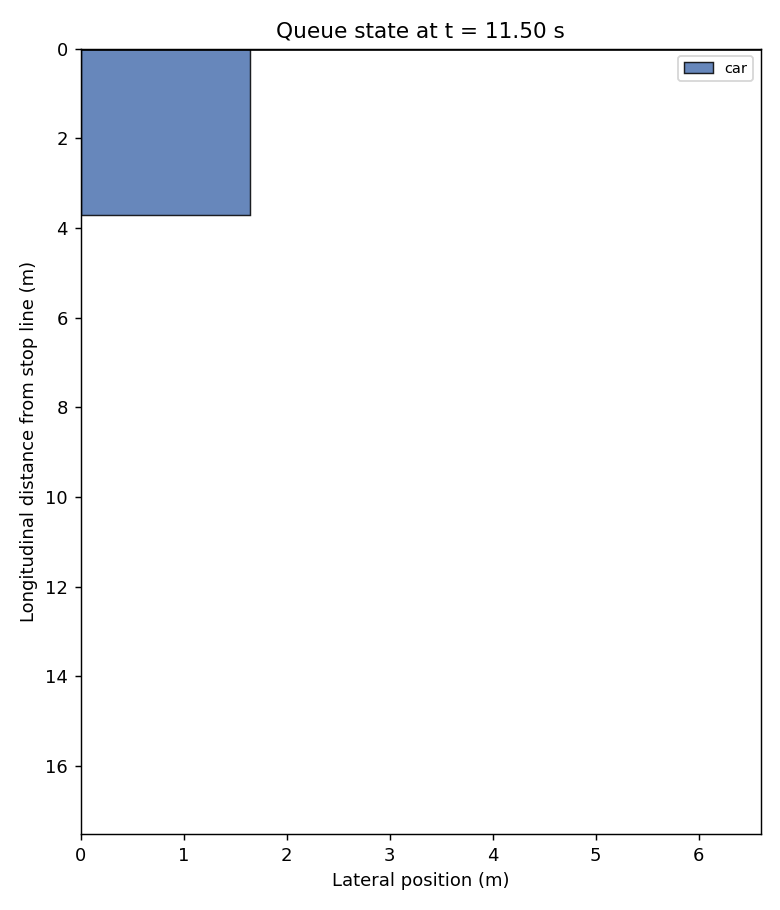
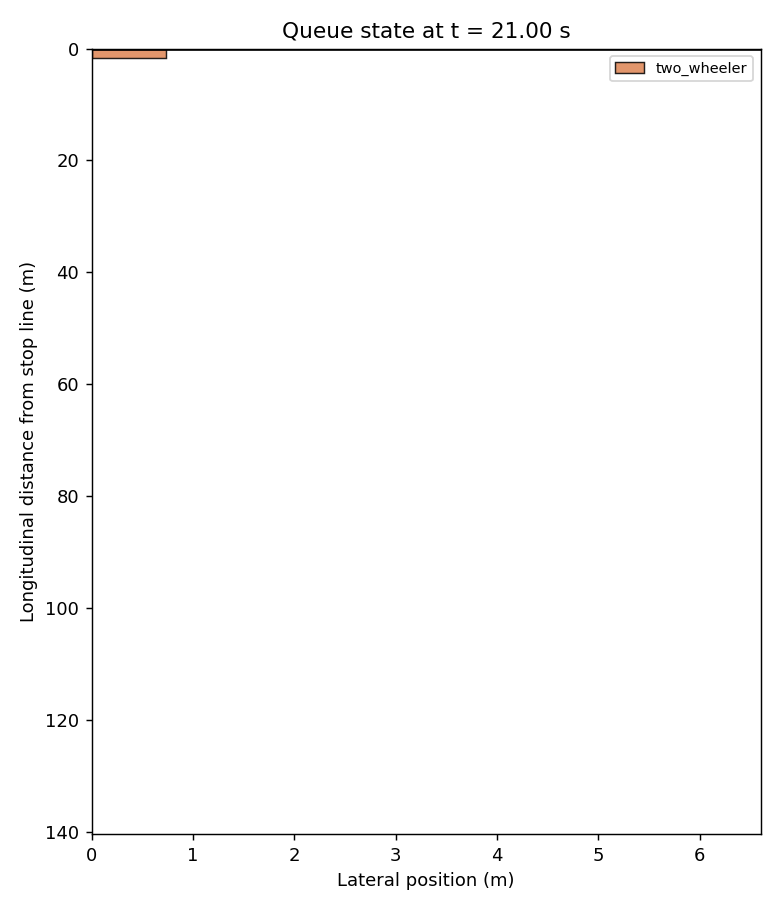
connected the code with simulation data

diff --git a/visualize_queue.py b/visualize_queue.py
@@ -4,12 +4,16 @@ import os
 from dataclasses import dataclass
 
 import matplotlib
+
+from plot import QueueSample
 matplotlib.use("Agg")
 import matplotlib.pyplot as plt
 import matplotlib.patches as patches
 
-from vehicle_queue_simulation import run_default_scenario
-
+from vehicle_queue_simulation import (
+    run_default_scenario,
+    run_csv_scenario,
+)
 
 VEHICLE_COLORS = {
     "car": "#4C72B0",
@@ -30,37 +34,98 @@ class PlacedRectangle:
     y_end: float
 
 
-def collect_rectangles() -> tuple[list[PlacedRectangle], list[float], float]:
+def collect_rectangles(
+    scenario: str = "default",
+) -> tuple[list[PlacedRectangle], list[float], float]:
+
     rectangles: list[PlacedRectangle] = []
     frame_times: list[float] = []
 
-    def on_event(event: dict) -> None:
-        if event["type"] != "arrival":
-            return
+    if scenario == "default":
 
-        frame_times.append(event["time"])
+        def on_event(event: dict) -> None:
+            if event["type"] != "arrival":
+                return
 
-        placement = event["placement"]
-        if placement is None:
-            return
+            frame_times.append(float(event["time"]))
 
-        rectangles.append(
-            PlacedRectangle(
-                time=event["time"],
-                vehicle=event["vehicle"],
-                x_start=placement["rect_x_start"],
-                x_width=placement["rect_x_width"],
-                y_start=placement["rect_y_start"],
-                y_end=placement["rect_y_end"],
+            placement = event["placement"]
+
+            if placement is None:
+                return
+
+            rectangles.append(
+                PlacedRectangle(
+                    time=float(event["time"]),
+                    vehicle=event["vehicle"],
+                    x_start=placement["rect_x_start"],
+                    x_width=placement["rect_x_width"],
+                    y_start=placement["rect_y_start"],
+                    y_end=placement["rect_y_end"],
+                )
             )
+
+        simulation, _ = run_default_scenario(
+            track_positions=True,
+            on_event=on_event,
         )
 
-    simulation, _ = run_default_scenario(
-        track_positions=True, on_event=on_event
-    )
+    elif scenario == "csv":
+
+        simulation, results = run_csv_scenario(
+            csv_path="VISSIM_Vehicle_Data.csv",
+            road_width=7.0,
+            wall_clearance=0.2,
+            seepage_ratio_T=1.0,
+            track_positions=True,
+        )
+
+        for event in results:
+
+            frame_times.append(float(event["time"]))
+
+            placement = event["placement"]
+
+            if placement is None:
+                continue
+
+            vehicle_type = event["vehicle_type"].strip().lower()
+
+            if "two" in vehicle_type or "2" in vehicle_type:
+                vehicle_type = "two_wheeler"
+            elif "car" in vehicle_type:
+                vehicle_type = "car"
+            elif "lcv" in vehicle_type:
+                vehicle_type = "lcv"
+            elif "truck" in vehicle_type:
+                vehicle_type = "truck"
+            elif "bus" in vehicle_type:
+                vehicle_type = "bus"
+
+            rectangles.append(
+                PlacedRectangle(
+                    time=float(event["time"]),
+                    vehicle=vehicle_type,
+                    x_start=placement["rect_x_start"],
+                    x_width=placement["rect_x_width"],
+                    y_start=placement["rect_y_start"],
+                    y_end=placement["rect_y_end"],
+                )
+            )
+            print(
+                f"t={event['time']:7.2f} | "
+                f"id={event['vehicle_id']:3} | "
+                f"type={event['vehicle_type']:12} | "
+                f"placed={event['placed']} | "
+                f"placement={event['placement']}"
+            )
+
+    else:
+        raise ValueError(
+            f"Unknown scenario '{scenario}'. Use 'default' or 'csv'."
+        )
 
     return rectangles, frame_times, simulation.usable_width
-
 
 def draw_frame(
     ax,
@@ -105,7 +170,8 @@ def draw_frame(
 
 
 def main() -> None:
-    rectangles, frame_times, usable_width = collect_rectangles()
+    scenario = "csv" 
+    rectangles, frame_times, usable_width = collect_rectangles(scenario)
 
     if not rectangles:
         print("No vehicles were placed; nothing to visualize.")

diff --git a/vehicle_queue_simulation.py b/vehicle_queue_simulation.py
@@ -5,7 +5,7 @@ from dataclasses import dataclass
 from typing import Optional
 import heapq
 import random
-
+import pandas as pd
 
 EPS = 1e-9
 
@@ -467,6 +467,89 @@ def run_default_scenario(
     return simulation, event_queue
 
 
+def run_csv_scenario(
+    csv_path: str,
+    road_width: float = 7.0,
+    wall_clearance: float = 0.2,
+    seepage_ratio_T: float = 1.0,
+    track_positions: bool = False,
+    on_event=None,
+) -> tuple[QueueSimulation, list[dict]]:
+    """
+    Run the queue-placement algorithm using vehicle data from a CSV.
+
+    Each CSV row represents a vehicle arriving at the shared link.
+    Vehicles from all lanes are processed in chronological order.
+    """
+
+    import pandas as pd
+
+    df = pd.read_csv(csv_path)
+
+    required_columns = {
+        "time",
+        "vehicle_id",
+        "vehicle_type",
+        "length_m",
+        "width_m",
+        "longitudinal_spacing_m",
+        "lateral_spacing_standing_m",
+    }
+
+    missing = required_columns - set(df.columns)
+
+    if missing:
+        raise ValueError(
+            f"Missing required CSV columns: {sorted(missing)}"
+        )
+
+    if df.empty:
+        raise ValueError("CSV contains no vehicle records.")
+
+    if df[list(required_columns)].isnull().any().any():
+        raise ValueError("CSV contains missing values in required columns.")
+
+    # Stable sorting preserves CSV order for simultaneous arrivals.
+    df = df.sort_values("time", kind="stable")
+
+    simulation = QueueSimulation(
+        road_width=road_width,
+        wall_clearance=wall_clearance,
+        seepage_ratio_T=seepage_ratio_T,
+        track_positions=track_positions,
+    )
+
+    results = []
+
+    for row in df.itertuples(index=False):
+
+        vehicle = VehicleType(
+            name=str(row.vehicle_type),
+            length=float(row.length_m),
+            width=float(row.width_m),
+            longitudinal_gap=float(row.longitudinal_spacing_m),
+            lateral_clearance=float(row.lateral_spacing_standing_m),
+        )
+
+        placement = simulation.add_vehicle(vehicle)
+
+        event = {
+            "time": float(row.time),
+            "vehicle_id": int(row.vehicle_id),
+            "vehicle_type": vehicle.name,
+            "placement": placement,
+            "max_queue_length": simulation.max_queue_length,
+            "entries": simulation.snapshot(),
+            "placed": placement is not None,
+        }
+
+        results.append(event)
+
+        if on_event is not None:
+            on_event(event)
+
+    return simulation, results
+
 if __name__ == "__main__":
     def log_event(event: dict) -> None:
         if event["type"] == "entry":
@@ -485,4 +568,28 @@ if __name__ == "__main__":
                 f"    max_queue_length={event['max_queue_length']:.3f}"
             )
 
-    run_default_scenario(track_positions=False, on_event=log_event)
+    #run_default_scenario(track_positions=False, on_event=log_event)
+    simulation, results = run_csv_scenario(
+        csv_path="VISSIM_Vehicle_Data.csv",
+        road_width=7.0,
+        wall_clearance=0.2,
+        seepage_ratio_T=1.0,
+        track_positions=True,
+    )
+
+    print("\nVISSIM queue simulation results:")
+
+    for event in results:
+        print(
+            f"[t={event['time']:6.1f}] "
+            f"Vehicle={event['vehicle_id']:2d} "
+            f"Type={event['vehicle_type']:12s} "
+            f"Queue={event['max_queue_length']:7.2f} m "
+            f"Placed={event['placed']}"
+        )
+
+    print("\nFinal statistics:")
+    print("Total vehicles:", len(results))
+    print("Placed:", simulation.placed_count)
+    print("Unplaced:", simulation.unplaced_count)
+    print("Maximum queue length:", simulation.max_queue_length)
